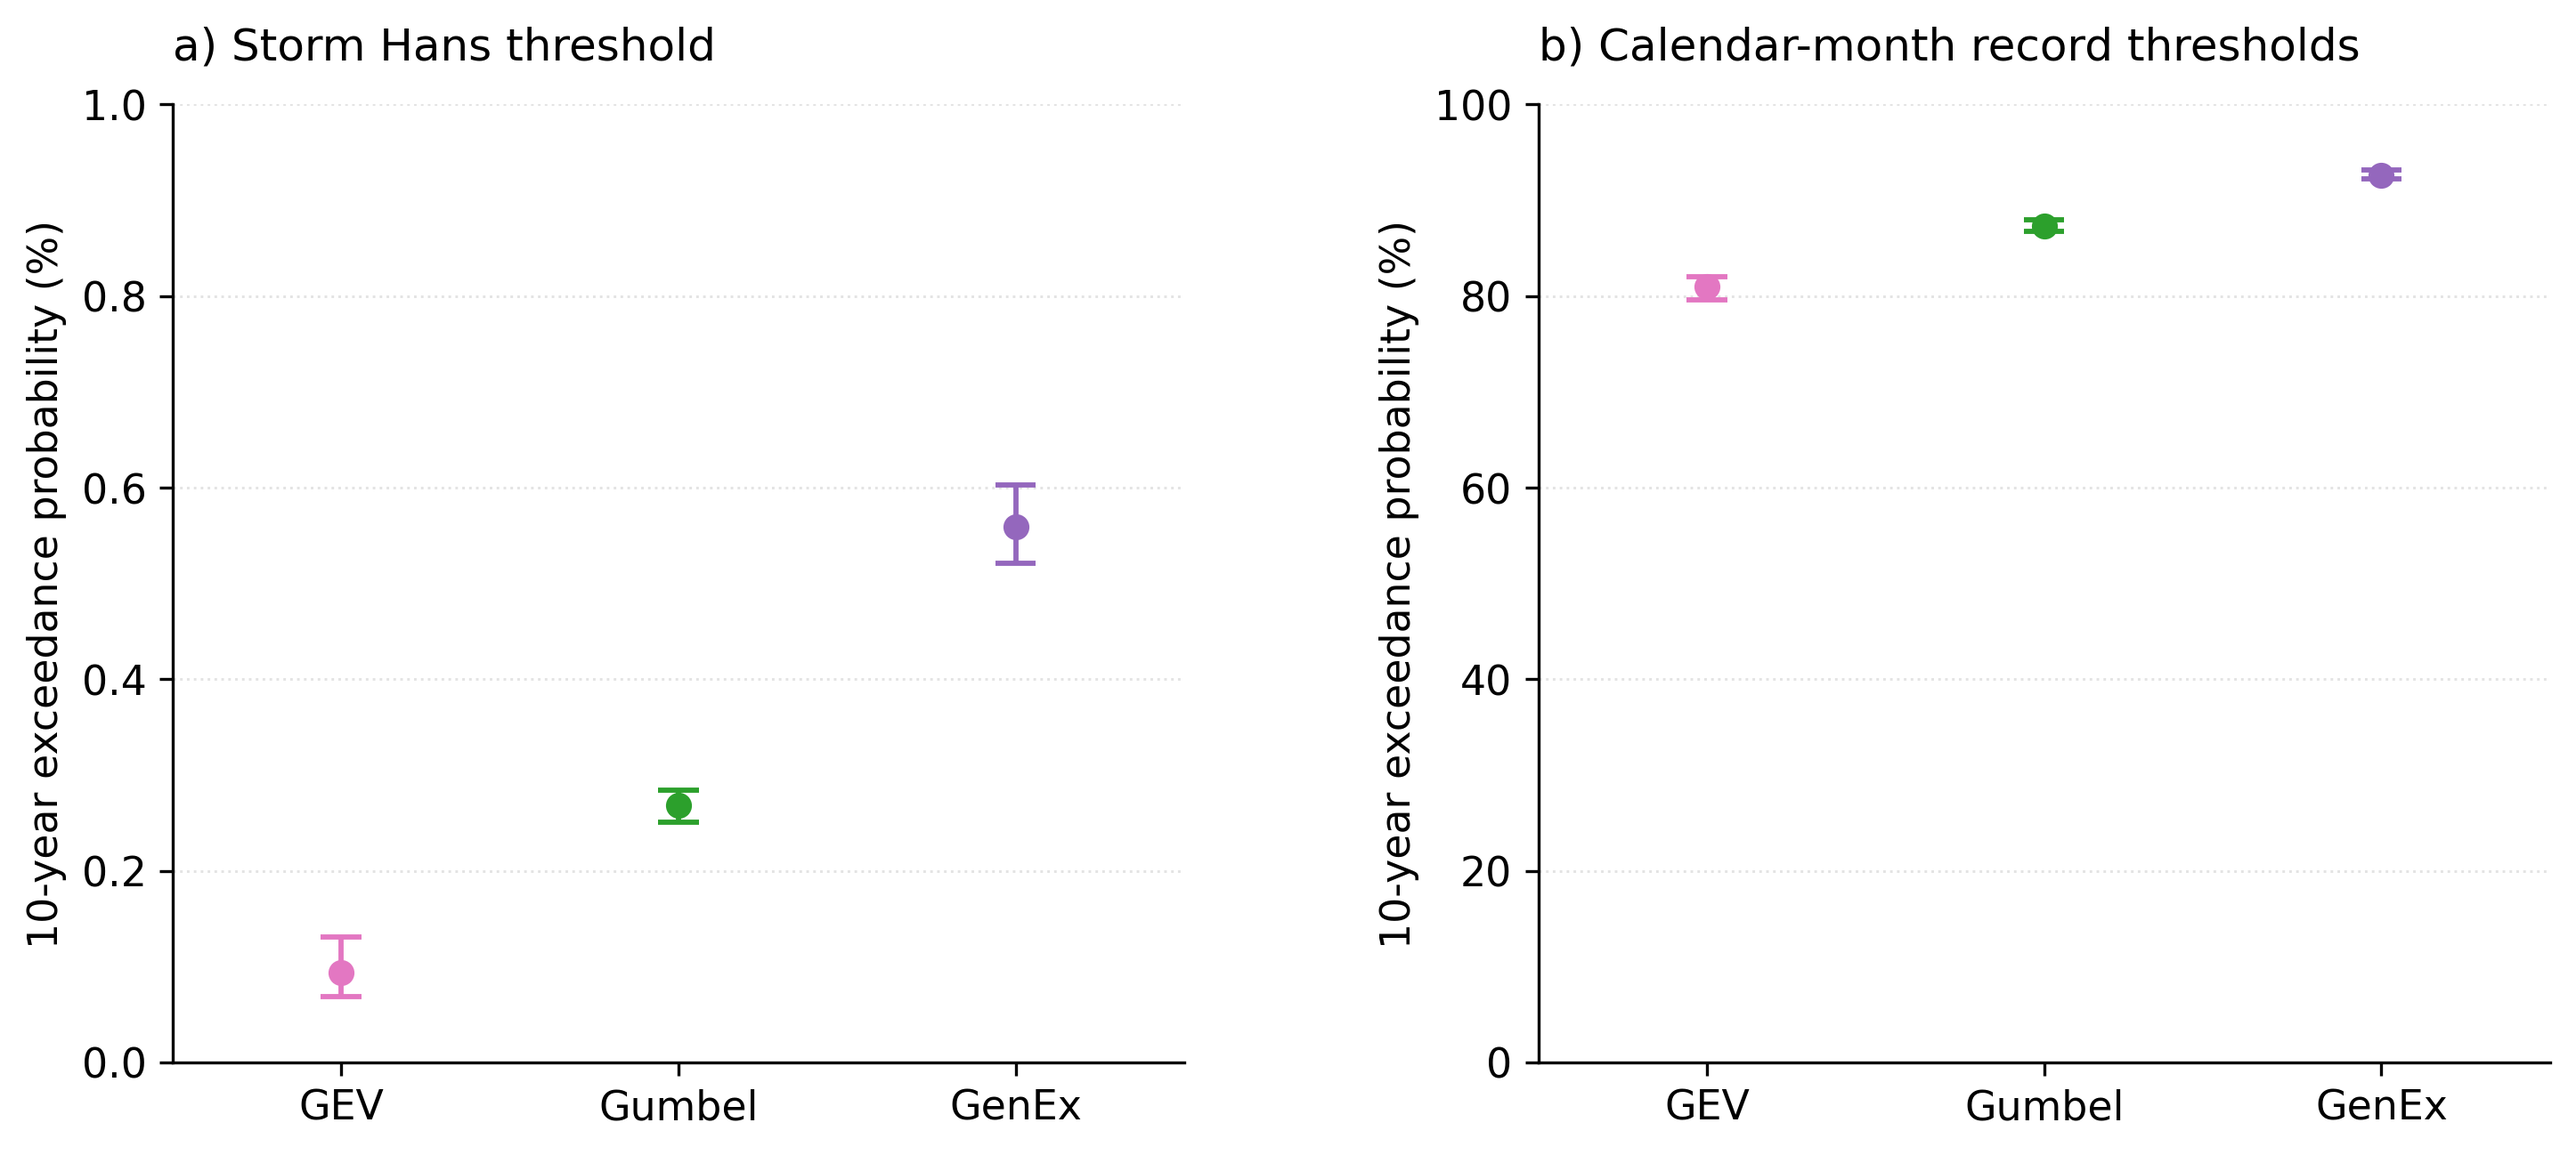
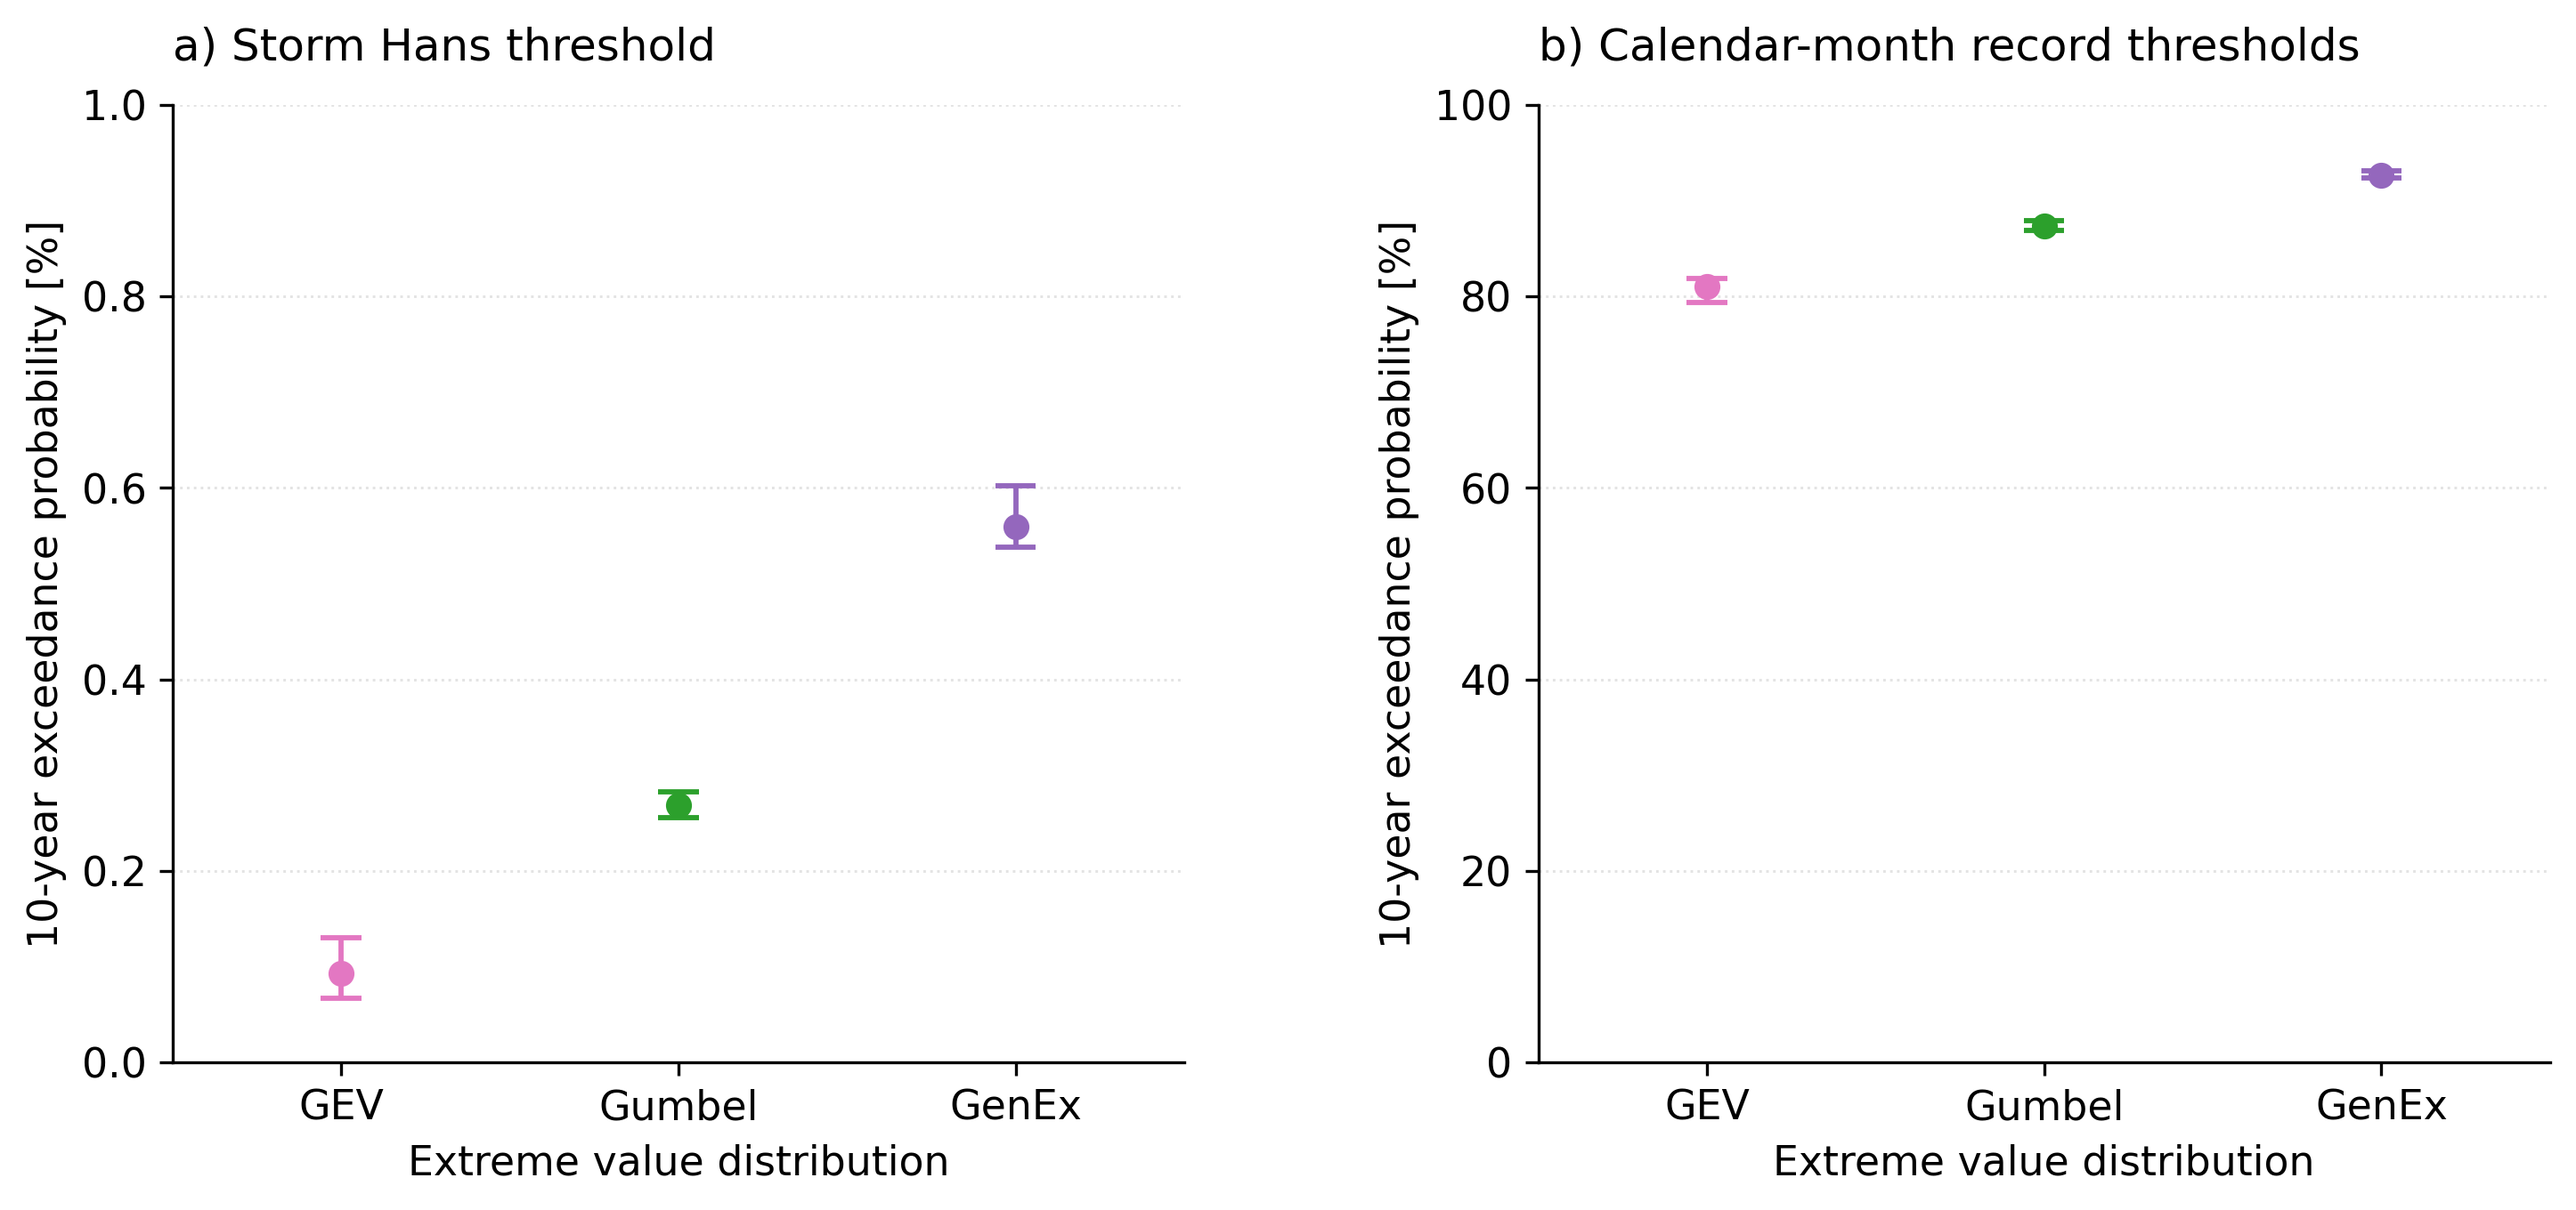
update

diff --git a/code/plot/paper_figs/plot-fig-04-Nyear-EP.py b/code/plot/paper_figs/plot-fig-04-Nyear-EP.py
@@ -99,7 +99,7 @@ AEP_YEARS = 10
 INCLUDE_STORM_HANS_IN_FIT = True
 
 BOOTSTRAP_METHOD = "nonparametric"  # "nonparametric" or "parametric"
-NUMBER_OF_BOOTSTRAPS = 100
+NUMBER_OF_BOOTSTRAPS = 20
 CONFIDENCE_LEVEL = 0.95
 MIN_SUCCESSFUL_BOOTSTRAP_FRACTION = 0.90
 RANDOM_SEED = 42
@@ -649,7 +649,8 @@ def draw_probability_panel(axis, results, settings, panel_label):
         f"{panel_label} {settings['title']}", loc="left",
         fontsize=TITLE_FONTSIZE, fontweight="normal", pad=12,
     )
-    axis.set_ylabel(f"{AEP_YEARS}-year exceedance probability (%)", fontsize=AXIS_LABELSIZE)
+    axis.set_ylabel(f"{AEP_YEARS}-year exceedance probability [%]", fontsize=AXIS_LABELSIZE)
+    axis.set_xlabel(f"Extreme value distribution", fontsize=AXIS_LABELSIZE)
     axis.tick_params(axis="both", labelsize=TICK_LABELSIZE, direction="out")
     axis.spines["top"].set_visible(False)
     axis.spines["right"].set_visible(False)
